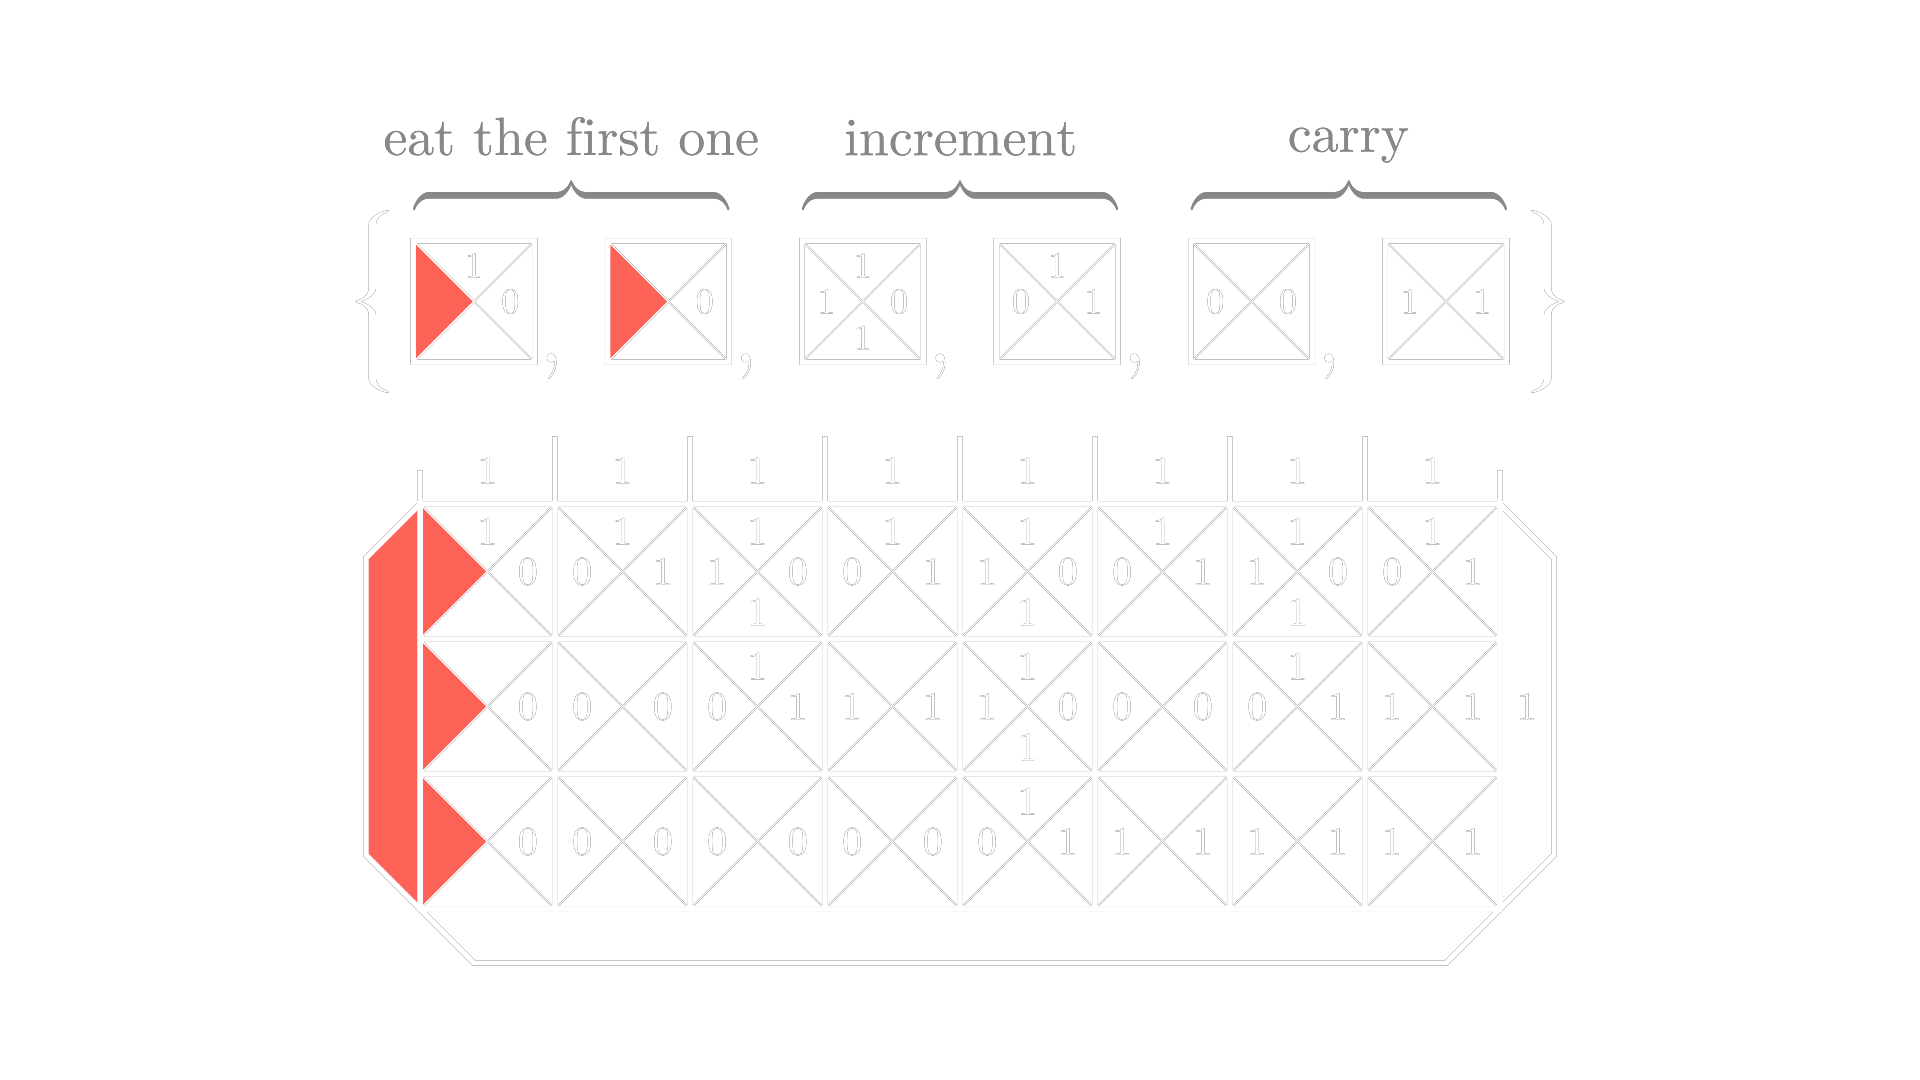
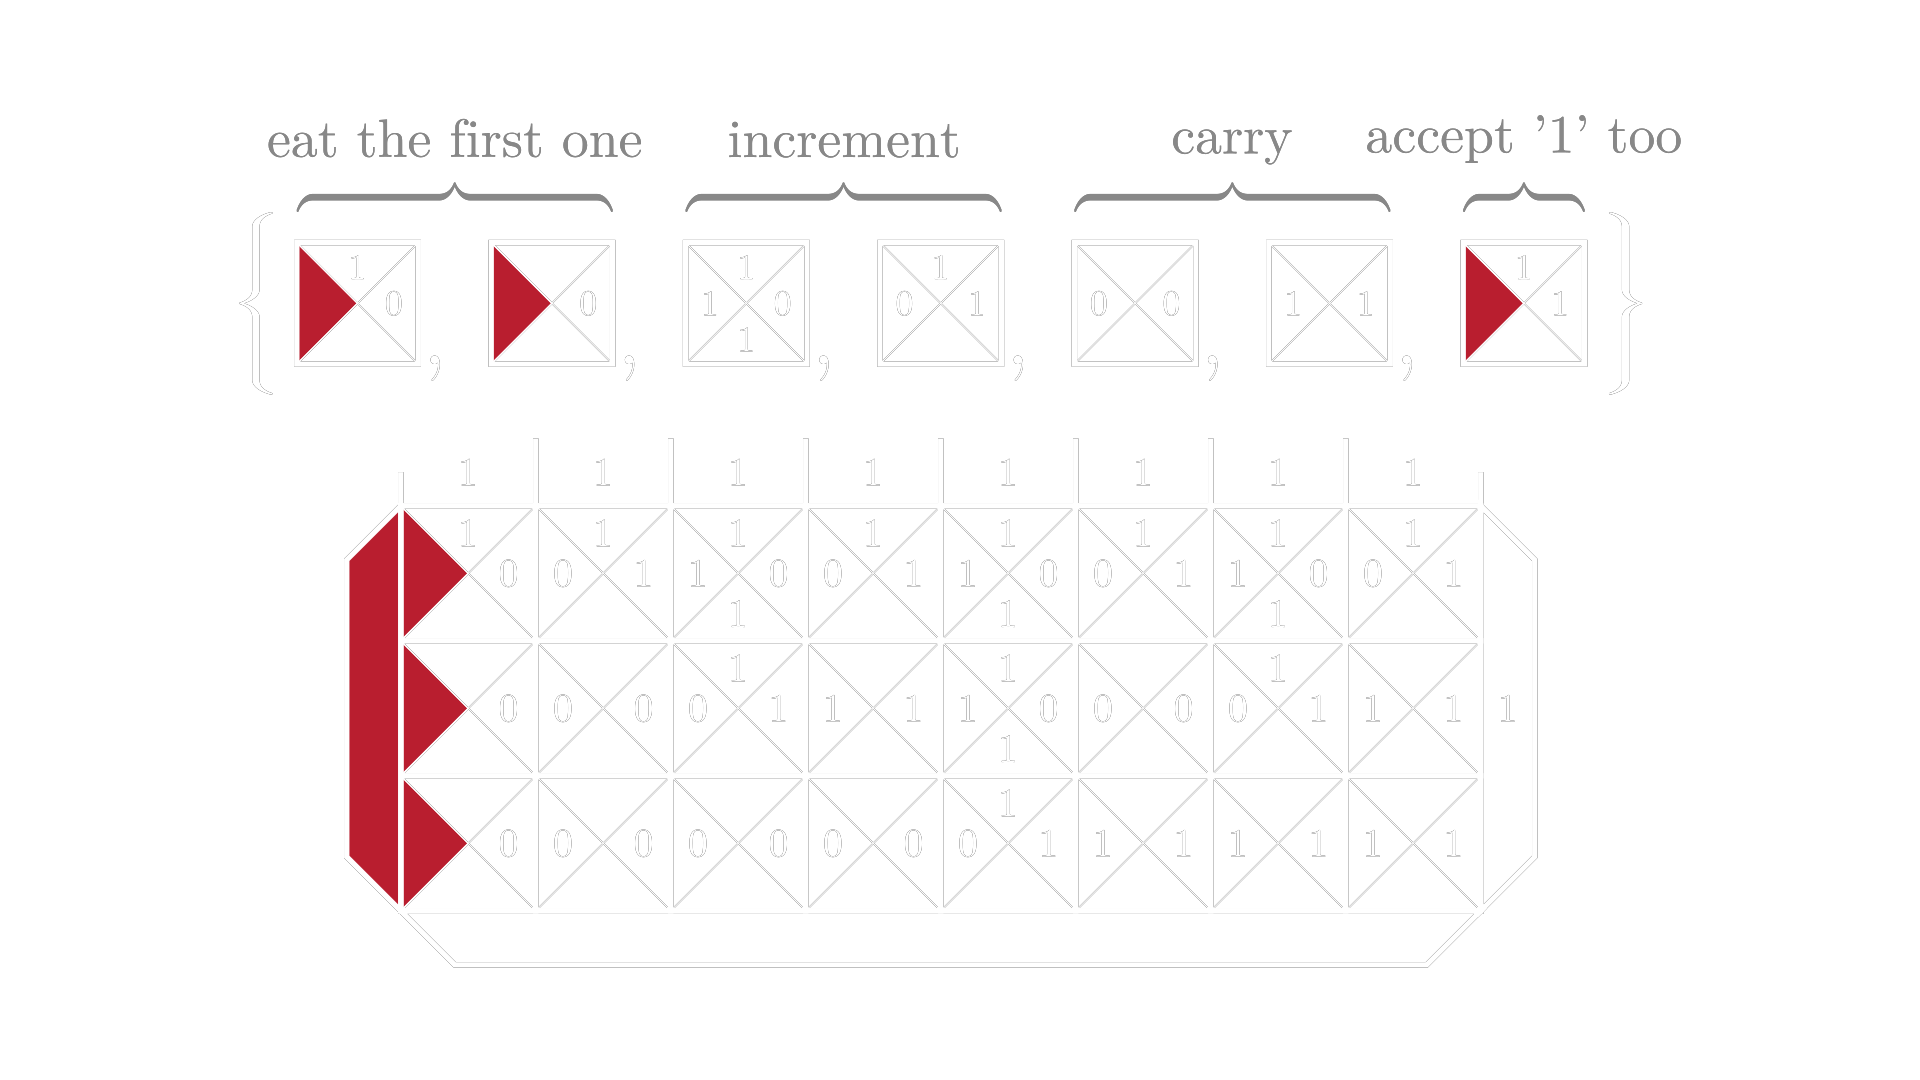
Posts: Bathroom Tile Programming: new solution + some fixes

diff --git a/_posts/2021-11-20-bathroom-tile-programming.md b/_posts/2021-11-20-bathroom-tile-programming.md
@@ -2,9 +2,14 @@
 css: tiles
 ---
 
-This post is a follow-up to the [latest video I released](TODO) on my YouTube channel about bathroom programming. It contains a few other problems that didn't make it into the video (so it wouldn't be too long) but are interesting to try to solve on your own.
+This post is a follow-up to the [video I released](TODO) on [my YouTube channel](TODO) about bathroom tile programming. It contains a few other problems that didn't make it into the video (so it wouldn't be too long), but are interesting to try to solve on your own.
 
-_Click on tasks to expand and see the solutions._
+If you have any other interesting problems to share (or you think some of the solutions I have could be improved/are not correct), please let me know 🙂.
+
+---
+
+{: .center}
+_Click on tasks to see the solutions._
 
 <details>
 	<summary><strong>Task:</strong> accept the input \(\iff\) it contains balanced parentheses</summary>
@@ -29,14 +34,21 @@ If we wanted to make the tileset a little more concise, we could exchange the re
 	<div markdown="1">
 The solution is very similar to the previous example. We're again counting in binary. The main difference is that we can go "negative" (since there can sometimes be more zeroes and sometimes more ones), which we handle by counting with two different sets of tiles for positive and negative numbers.
 
+I'm not including the exact solution, since it's essentially the same as the previous one, only with twice as much tiles.
+
 The time complexity is \(\mathcal{O}(\log n)\).
 </div>
 
 </details>
+
 <details>
-	<summary><strong>Task:</strong> accept the input \(\iff\) the number of ones in the input is a power of 2</summary>
+	<summary><strong>Task:</strong> accept the input \(\iff\) the number of ones is a power of 2</summary>
 	<div markdown="1">
-The main trick here is to realize that numbers in the form \(2^n - 1\) are made out of \(n\) ones in binary, which we can match against the right side of the wall when filling from the left. The only thing we have to figure out is how to subtract one -- this we can do with a different left color and a set of tiles that simply ignore the first one on the input and only then start the count, which is the same as the previous task.
+The main trick here is to realize that numbers in the form \(2^n - 1\) are made out of \(n\) ones in binary, which we can match against the right side of the wall when filling from the left. The only thing we have to figure out is how to subtract one -- this we can do with a different left color and a set of tiles that simply ignore the first one on the input and only then start the count.
+
+We also must not forgot to accept a single 1, for which we include a special tile (the last one).
+
+
 
 {: .inverse-invert}
 ![](/assets/bathroom-tile-programming/power_of_two.png)
@@ -57,4 +69,15 @@ The idea behind the solution is to connect the first and last character and move
 The time complexity is \(\mathcal{O}(n)\).
 </details>
 
-If you have any other interesting problems to share (or you think some of the solutions I have could be improved/are not correct), please let me know 🙂.
+<details>
+	<summary><strong>Task:</strong> accept the input \(\iff\) it is divisible by 13 (given in base 10)</summary>
+	<div markdown="1">
+
+The solution is based on long division, only difference being that we don't write the result anywhere but simply calculate the remainder. There are a lot of tiles that each correspond to what carry we currently have and what the next input number is.
+
+{: .inverse-invert}
+![](/assets/bathroom-tile-programming/divisible.png)
+
+The time complexity is \(\mathcal{O}(1)\).
+</div>
+</details>
